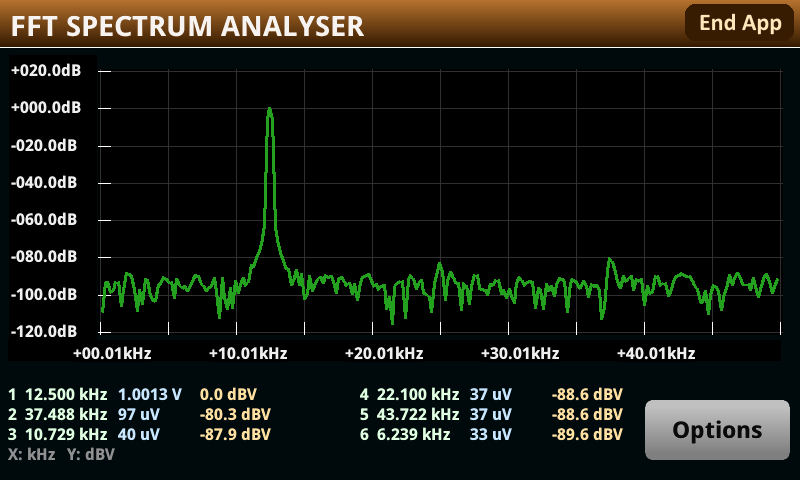
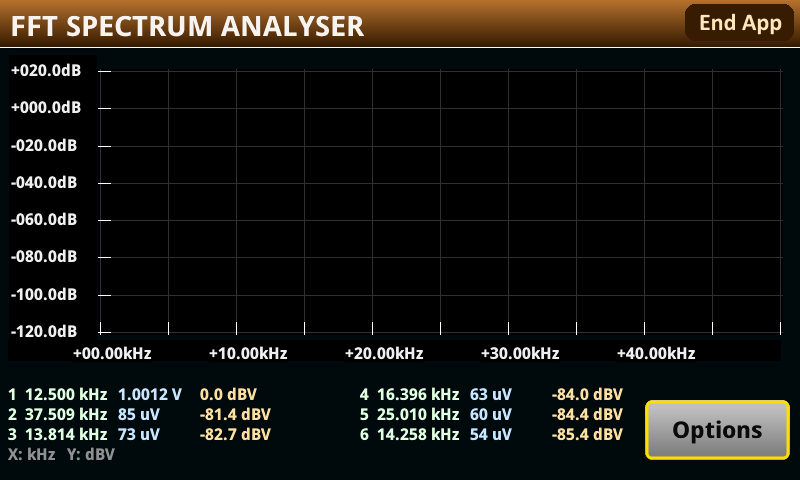
Retake both manual screenshots, with the axis labelled in round numbers
Captured from the installed build at identical conditions, 10 V range and a 10 Hz to
50 kHz span with a 12.5 kHz tone: 512 samples for the main figure and 16384 for the
resolution comparison. Both axis rows now read +00.00kHz, +10.00kHz, +20.00kHz.

16384 is the size that matters here. The first version of the dc pin tested the Start
frequency against the BIN width, which is true only at 512, so the labels came out round
at the default and kept a 10 Hz offset at every larger count -- these two captures are
the ends of that range, so between them they show the rule is no longer size-dependent.
All six sizes were captured; the suite covers all six too.

The manual's note about the "+" and the ".01" is replaced: the "+" is still the
firmware's, but the ".01" is gone and what replaces it is worth stating, because the
behaviour is conditional. The axis starts at dc when Start is under one pixel of the span
and keeps a zoomed band's own limits otherwise, so a narrow span still fills the plot.

diff --git a/docs/MANUAL.md b/docs/MANUAL.md
@@ -8,7 +8,7 @@ screen and buffer the app made.
 
 ## The spectrum screen
 
-![The spectrum screen: a 12.5 kHz 1.0013 V tone reading 0.0 dBV, over a 10 Hz to 50 kHz span at 512 samples with the Hann window. The vertical axis is labelled +020.0dB down to -120.0dB and the horizontal axis +00.01kHz to +40.01kHz, both by the firmware. The noise floor sits near -100 dB](manual-spectrum.png)
+![The spectrum screen: a 12.5 kHz 1.0013 V tone reading 0.0 dBV, over a 10 Hz to 50 kHz span at 512 samples with the Hann window. The vertical axis is labelled +020.0dB down to -120.0dB and the horizontal axis +00.00kHz to +40.00kHz, both by the firmware. The noise floor sits near -100 dB](manual-spectrum.png)
 
 +20 to −120 dBV against frequency. By default, 512 samples a frame, 256 bins, 10 frames a second.
 Options offers larger records for finer bin spacing, at a slower update rate.
@@ -21,8 +21,11 @@ firmware's numeric plot, which labels the real frequency and picks the SI prefix
 are decibels held in a buffer whose unit is a two-character custom one, `dB`, for the same reason: a
 volt-unit buffer labelled them `V`.
 
-The `+` signs and the `.01` are both the firmware's doing. It signs its numeric axes, and the span
-starts at the Start frequency — 10 Hz by default, which is 0.01 kHz. Set Start to 0 for round marks.
+The `+` signs are the firmware's doing — it signs its numeric axes. The tick numbers are round
+because the axis is pinned from DC whenever the Start frequency is under one pixel of the span, which
+it is at every default: a 10 Hz Start on a 50 kHz span would otherwise put the ticks at 10, 10010 and
+20010 Hz and label them `+00.01kHz`. Zoom into a narrow band and the axis keeps that band's own
+limits, so the trace still fills the plot.
 
 Six peaks, strongest first, in two columns:
 
@@ -184,8 +187,8 @@ Three consequences, and the first is the point of it:
 
 ![The spectrum screen at 16384 samples: the 12.5 kHz tone as a narrow spike at 0.0 dBV, its second
 and third harmonics resolved as separate spikes at 25.000 and 37.500 kHz, and the noise floor drawn
-as a single line near -100 dB. The axes are the firmware's own, +020.0dB to -120.0dB and +00.01kHz to
-+40.01kHz](manual-spectrum-16384.png)
+as a single line near -100 dB. The axes are the firmware's own, +020.0dB to -120.0dB and +00.00kHz to
++40.00kHz](manual-spectrum-16384.png)
 
 Compare the 512-sample shot at the top of this manual, where the same tone is a single 195 Hz-wide
 lump and the harmonics are lost in the floor.

diff --git a/README.md b/README.md
@@ -4,7 +4,7 @@ A real-time FFT spectrum analyser for the Keithley DMM6500, DAQ6510 and DMM7510,
 on the instrument** as a TSP app. The digitizer captures, the instrument computes the transform in
 Lua, and the firmware's own graph object draws the trace. No host, no PC software.
 
-![The spectrum screen: a 12.5 kHz 1.0013 V tone reading 0.0 dBV over a 10 Hz to 50 kHz span at 512 samples, Hann window, with the firmware labelling the axes +020.0dB to -120.0dB and +00.01kHz to +40.01kHz](docs/manual-spectrum.png)
+![The spectrum screen: a 12.5 kHz 1.0013 V tone reading 0.0 dBV over a 10 Hz to 50 kHz span at 512 samples, Hann window, with the firmware labelling the axes +020.0dB to -120.0dB and +00.00kHz to +40.00kHz](docs/manual-spectrum.png)
 
 A bench multimeter is not a spectrum analyser. This one has a 1 MS/s digitizer, a 400 MHz processor
 and a touchscreen, which is enough for 195 Hz resolution at 10 frames a second.

diff --git a/docs/PERFORMANCE.md b/docs/PERFORMANCE.md
@@ -452,7 +452,7 @@ name rule above.
 
 **Settled, and the whole problem went away.** X is bound to the reading's **extra** field, which makes
 the graph the firmware's numeric x-y plot instead of a time plot: the axis takes its limits in real
-hertz and the firmware labels and SI-prefixes them itself -- `+00.01kHz`, `+10.01kHz`. The Y axis
+hertz and the firmware labels and SI-prefixes them itself -- `+00.00kHz`, `+10.00kHz`. The Y axis
 reads `dB` because the buffer's reading unit is the two-character custom unit `buffer.UNIT_CUSTOM1`,
 registered with `buffer.unit`. Confirmed on the instrument, 2026-10-25.
 
